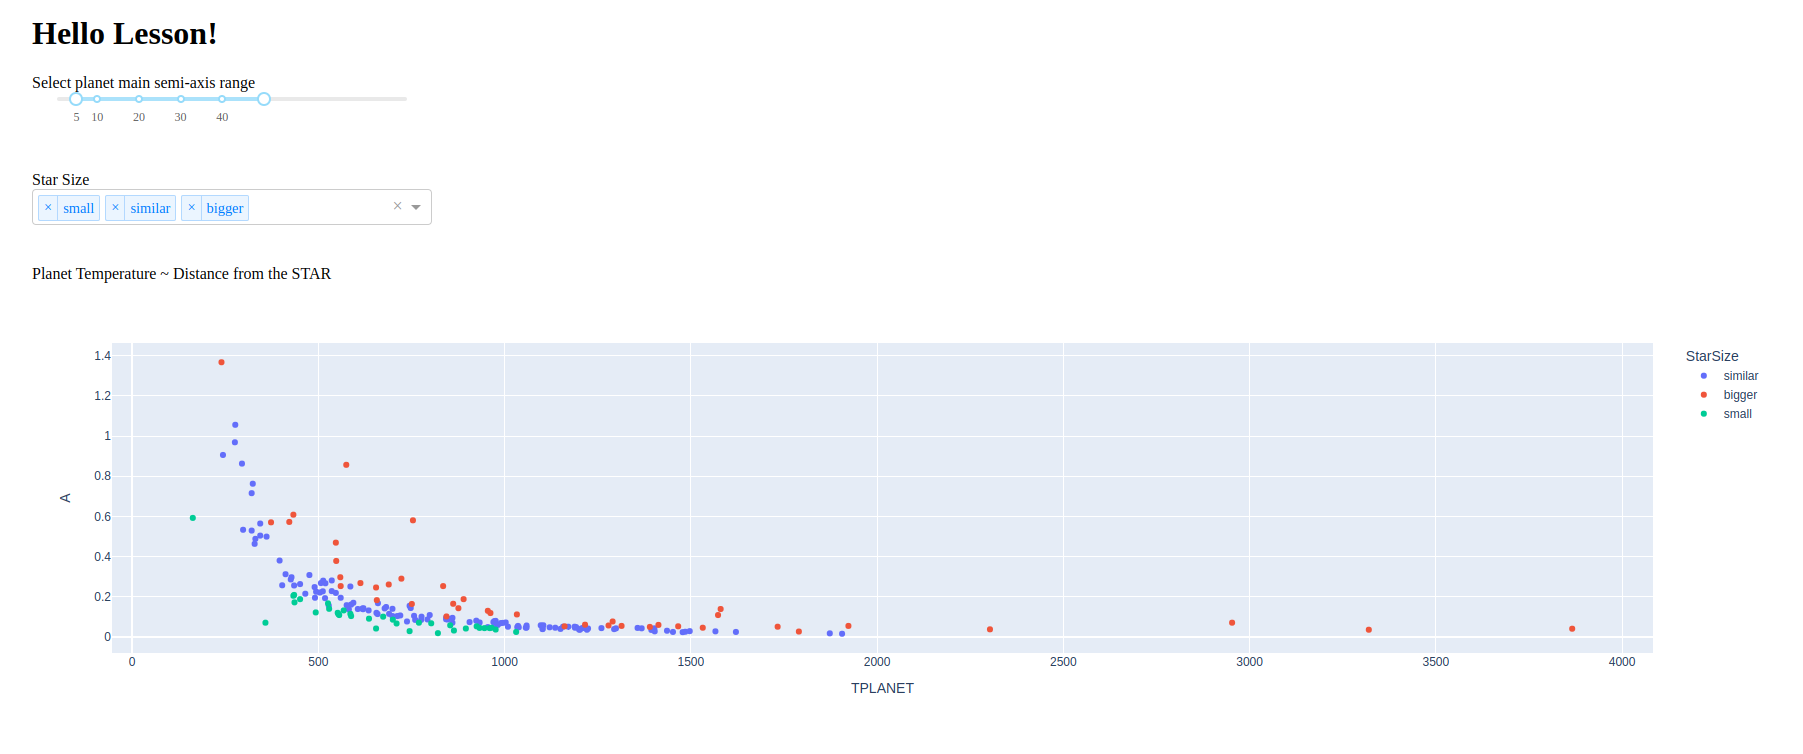
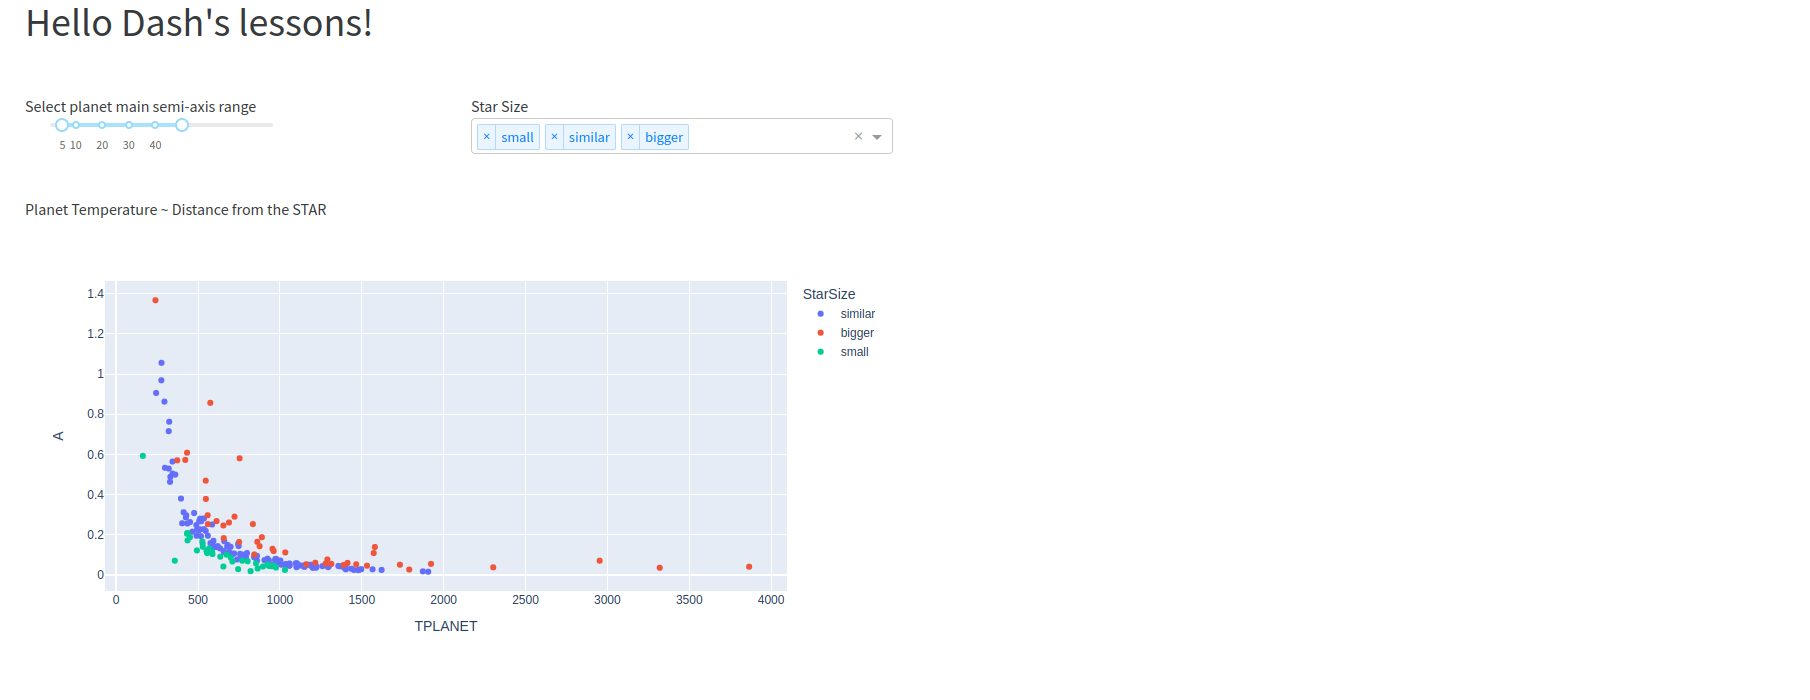
End lesson 4

diff --git a/app.py b/app.py
@@ -3,6 +3,7 @@ import pandas as pd
 import plotly.express as px
 
 from dash import Dash, dcc, html, Input, Output
+import dash_bootstrap_components as dbc
 
 from dash_selectors.selectors import rplanet_selector, star_size_selector
 
@@ -22,27 +23,65 @@ def get_df():
 
 df = get_df()
 
-app = Dash(__name__)
+app = Dash(__name__,
+           external_stylesheets=[dbc.themes.COSMO])
 
 app.layout = html.Div([
-    html.H1('Hello Lesson!'),
-
-    html.Div('Select planet main semi-axis range'),
-    html.Div(rplanet_selector(df),
-             style={'width': '400px',
-                    'margin-bottom': '40px'}),
-
-    html.Div('Star Size'),
-    html.Div(star_size_selector(),
-             style={'width': '400px',
-                    'margin-bottom': '40px'}),
-
-    html.Div('Planet Temperature ~ Distance from the STAR'),
-    dcc.Graph(id='dist-temp-chart')  # график (figure) возвращается из upd_dist_temp_chart()
+    # Head
+    dbc.Row(html.H1("Hello Dash's lessons!"),
+            style={'margin-bottom': 40}),
+    # Filters
+    dbc.Row([
+        dbc.Col([
+            html.Div('Select planet main semi-axis range'),
+            html.Div(rplanet_selector(df))
+        ],
+            md=2
+        ),
+        dbc.Col([
+            html.Div('Star Size'),
+            html.Div(star_size_selector())
+        ],
+            width={'size': 3, 'offset': 1}
+        )
+    ],
+        style={'margin-bottom': 40}
+    ),
+    # Charts
+    dbc.Row([
+        dbc.Col([
+            html.Div('Planet Temperature ~ Distance from the STAR'),
+            dcc.Graph(id='dist-temp-chart')  # график (figure) возвращается из upd_dist_temp_chart()
+        ],
+            md=6
+        )
+    ],
+        style={'margin-bottom': 40}
+    )
 ],
     style={'margin-left': '80px',
            'margin-right': '80px'}
 )
+
+# app.layout = html.Div([
+#     html.H1('Hello Lesson!'),
+#
+#     html.Div('Select planet main semi-axis range'),
+#     html.Div(rplanet_selector(df),
+#              style={'width': '400px',
+#                     'margin-bottom': '40px'}),
+#
+#     html.Div('Star Size'),
+#     html.Div(star_size_selector(),
+#              style={'width': '400px',
+#                     'margin-bottom': '40px'}),
+#
+#     html.Div('Planet Temperature ~ Distance from the STAR'),
+#     dcc.Graph(id='dist-temp-chart')  # график (figure) возвращается из upd_dist_temp_chart()
+# ],
+#     style={'margin-left': '80px',
+#            'margin-right': '80px'}
+# )
 
 
 @app.callback(

diff --git a/README.md b/README.md
@@ -1,15 +1,15 @@
 # Изучение библиотеки python **Dash**
-### Тема урока - несколько фильтров, Input, callback
+### Урок #4: внешний вид приложения, используем Bootstrap
 
-:tv: Видео [Plotly Dash #3][1]
+:tv: Видео [Plotly Dash #4][1]
 
 1. **Documents** [Dash Plotly](https://dash.plotly.com/layout)
 2. **Youtube playlist** [Plotly Dash - 🚀дашборд в Python🐍](https://www.youtube.com/watch?v=HExq59HlFb0&list=PLIAV3wuAPHZouwZlmvqmC-djRsaDKT8rC&index=1)
 
 ---
-####  Урок #3
+####  Урок #4
 
 ![Lesson's dash](lesson.png)
 
 
-[1]: https://www.youtube.com/watch?v=2FpzXklazFo&list=PLIAV3wuAPHZouwZlmvqmC-djRsaDKT8rC&index=4
+[1]: https://www.youtube.com/watch?v=eVWciZZ8_9M&list=PLIAV3wuAPHZouwZlmvqmC-djRsaDKT8rC&index=4
